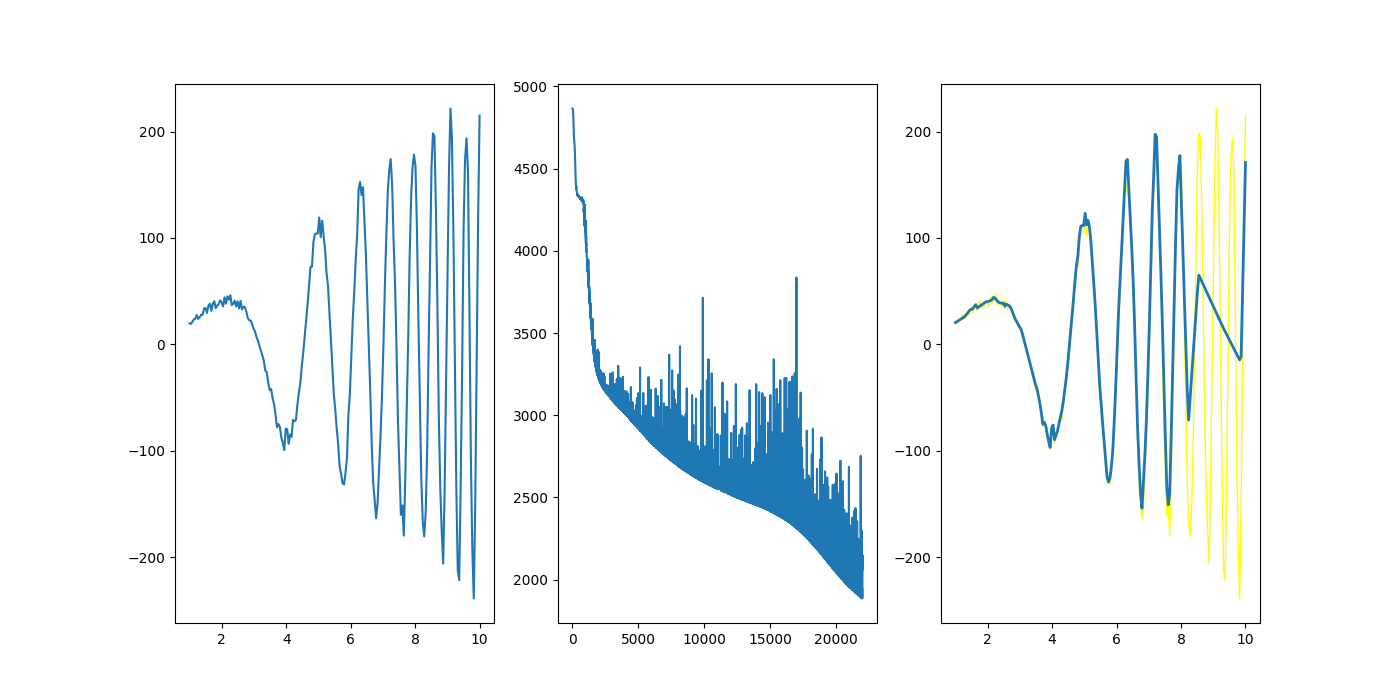
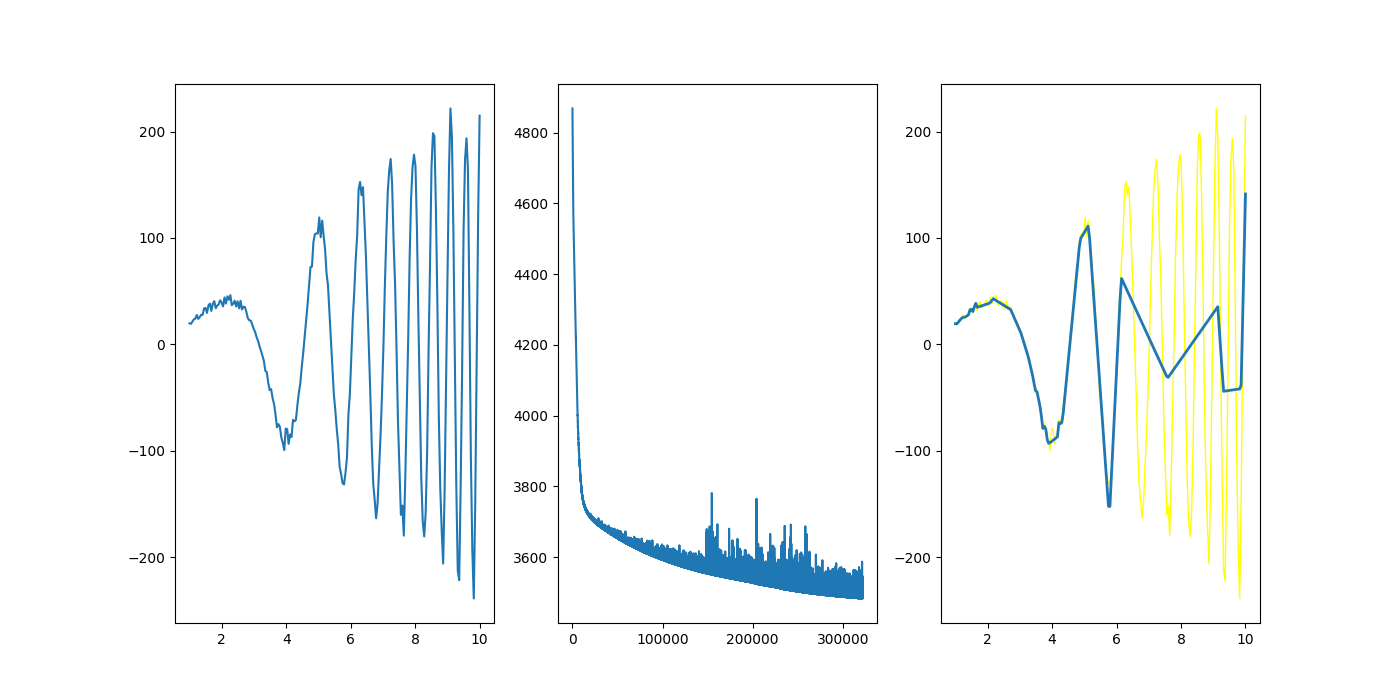
sim 3

diff --git a/main.py b/main.py
@@ -38,9 +38,9 @@ regr5_sim1 = MLPRegressor(hidden_layer_sizes=(100,80,70,40,20,10),max_iter=52200
 
 regr5_sim2 = MLPRegressor(hidden_layer_sizes=(60,70,50,20),max_iter=322000,activation='relu',solver='adam',learning_rate='adaptive',n_iter_no_change=5000)
 
-regr5_sim3 = MLPRegressor(hidden_layer_sizes=(80,40),max_iter=82000,activation='relu',solver='adam',learning_rate='adaptive',n_iter_no_change=1400)
+regr5_sim3 = MLPRegressor(hidden_layer_sizes=(120,60),max_iter=322000,activation='relu',solver='adam',learning_rate='adaptive',n_iter_no_change=22000)
 
-regr = regr5_sim1
+regr = regr5_sim3
 
 print('Carregando Arquivo de teste')
 
@@ -78,7 +78,7 @@ for i in range(1):
     plt.plot(x,y_est,linewidth=2)
 
     #plt.show()
-    plt.savefig(f'./imagens/teste5/sim1/E{i+1}.png')
+    plt.savefig(f'./imagens/teste5/sim3/E{i+1}.png')
 
 media = media / 10
 
